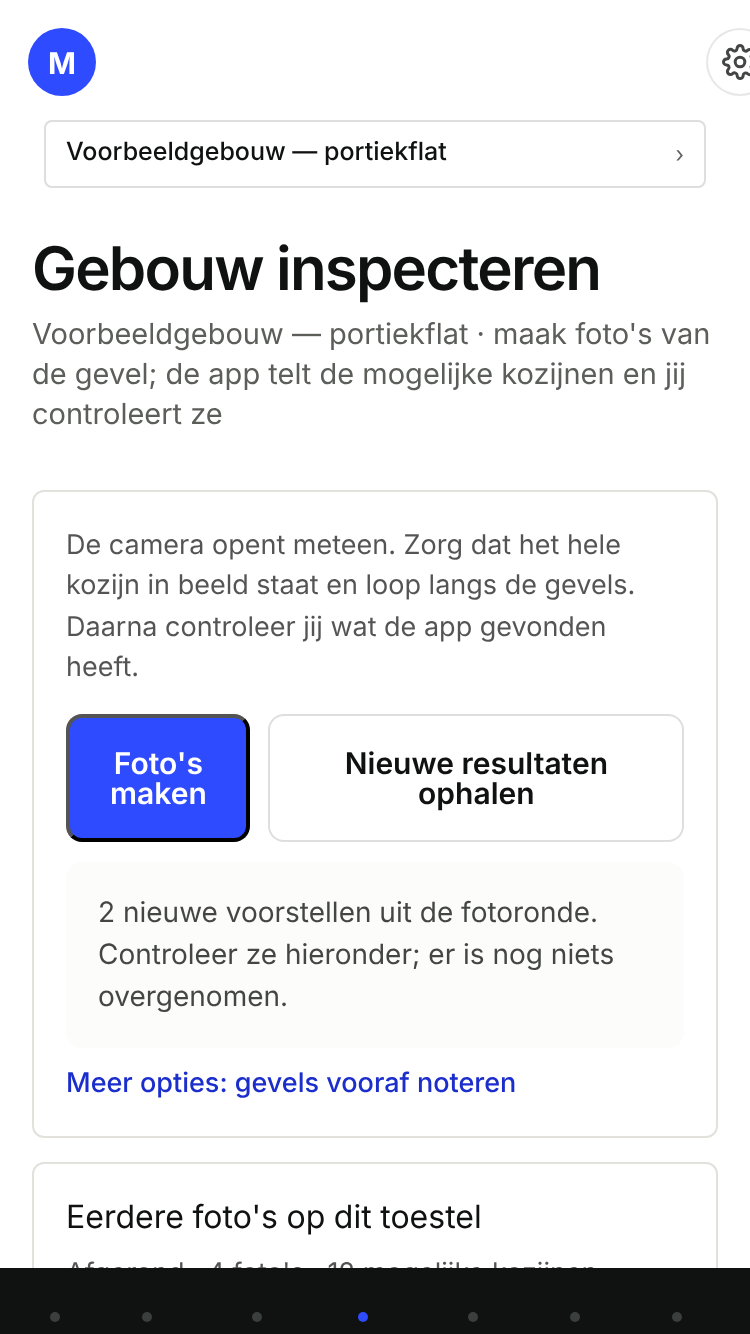
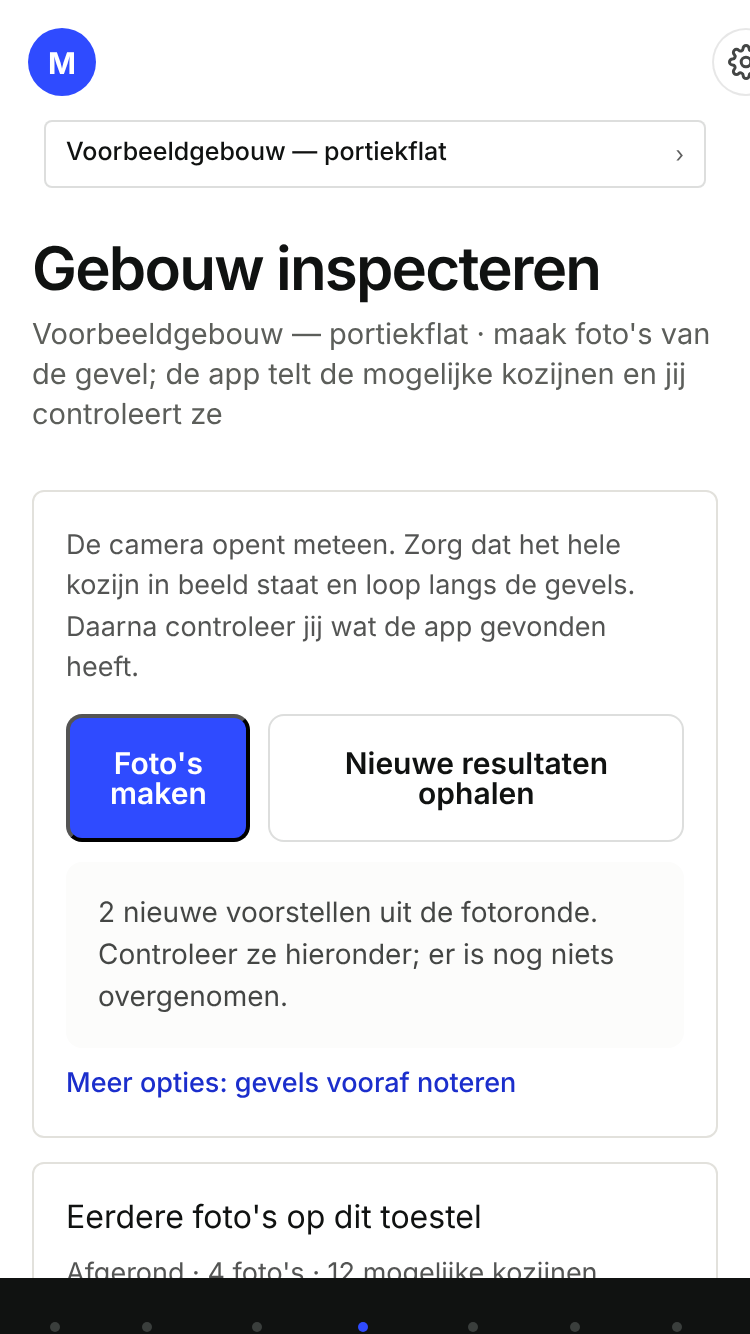
UX stap 4: begrijpelijke controle en bevestiging van scanresultaten
- 'Dit is gevonden': aantal kozijnen en kozijnoppervlak in gewone taal (voorlopig; ontbrekend blijft 'nog niet te bepalen', nooit 0)
- Eén knop 'Toevoegen aan MJOP' (bron toevoegen + kiezen) met dezelfde verplichte erkenning dat het een voorlopige schatting is; een eigen waarde wordt alleen vervangen na uitdrukkelijke keuze en blijft als bron bewaard
- Uitgebreide weergave en bestaande flow ongewijzigd; nieuwe quantity-check.spec.js

Claude-Session: https://claude.ai/code/session_01GYBR75Fb7Wtgfy81KxCUeB

Changed region(s): [[0.0, 0.9528, 1.0, 1.0], [0.9507, 0.0307, 1.0, 0.0615]]

diff --git a/src/app.js b/src/app.js
@@ -2437,9 +2437,30 @@
       var lokaal = isDirty();
       html += '<div class="label" style="margin-top:16px">' + (simpel ? 'Resultaten van de foto\'s' : 'Voorstellen') + '</div>';
       if (lokaal) html += '<div class="hint" data-fotoronde-lokaal>Nog niet opgeslagen: deze voorstellen staan alleen op dit toestel tot je het plan opslaat.</div>';
+      if (simpel) html += renderPrSamenvatting(list);
       list.forEach(function (entry) { html += renderPrCard(entry); });
     }
     html += PG_CLOSE;
+    return html;
+  }
+
+  // Overzicht in gewone taal van wat de foto's hebben opgeleverd (alleen voor het hele gebouw; nooit gevels bij elkaar opgeteld).
+  function renderPrSamenvatting(list) {
+    var actief = list.filter(function (x) { return x.ui.status !== 'REJECTED' && x.ui.status !== 'SUPERSEDED' && x.p.target.scope.type === 'BUILDING'; });
+    var aantal = actief.filter(function (x) { return x.p.target.unit === 'st'; })[0];
+    var opp = actief.filter(function (x) { return x.p.target.unit !== 'st'; })[0];
+    if (!aantal && !opp) return '';
+    var html = '<section class="ov-card pr-samenvatting" data-pr-samenvatting style="padding:16px;margin-top:12px"><h2 class="ov-h2">Dit is gevonden</h2>';
+    if (aantal) {
+      var av = PR.effectiveValue(aantal);
+      html += '<p data-pr-sam-aantal>' + (av == null ? 'Aantal kozijnen: nog niet te bepalen.' : 'Aantal kozijnen: <b>' + Q.formatNumber(av) + '</b> (voorlopig)') + '</p>';
+    }
+    if (opp) {
+      var ov = PR.effectiveValue(opp), unit = Q.unitLabel(opp.p.target.unit);
+      html += '<p data-pr-sam-opp>' + (ov != null ? 'Kozijnoppervlak: <b>' + Q.formatNumber(ov) + ' ' + esc(unit) + '</b> (voorlopig)'
+        : 'Kozijnoppervlak: nog niet te bepalen' + (opp.p.partial_value != null ? '. Voor een deel van de kozijnen is er een maat (' + Q.formatNumber(opp.p.partial_value) + ' ' + esc(unit) + '); het totaal is nog niet compleet' : '') + '.') + '</p>';
+    }
+    html += '<p class="hint">Nog niets is overgenomen in je MJOP. Controleer de resultaten hieronder en kies zelf wat je toevoegt.</p></section>';
     return html;
   }
 
@@ -2467,7 +2488,27 @@
       html += '<div class="input-row"><div class="label">Corrigeer waarde (optioneel)</div><input id="pr-corr-' + esc(id) + '" data-bind="pr-corr" data-id="' + esc(id) + '" inputmode="decimal" placeholder="' + (p.value == null ? 'vul zelf in' : Q.formatNumber(p.value)) + '" value="' + (u.corrected != null ? esc(String(u.corrected).replace('.', ',')) : '') + '" style="width:110px;text-align:right" /></div>';
       if (u.corrFout) html += '<div class="notice error" data-pr-fout>' + esc(u.corrFout) + '</div>';
       var targets = PR.targetsFor(p, state.elements);
-      if (p.target.unit === 'st') {
+      if (simpel && p.target.unit === 'st') {
+        // Eén begrijpelijke bevestiging i.p.v. "als bron toevoegen" + "gebruiken". De uitdrukkelijke erkenning blijft verplicht.
+        var effT = u.targetId || (targets.length === 1 ? targets[0].id : '');
+        var effEntryTq = effT ? (function () { var pp = effT.split(':'), eel = findEl(pp[0]); return eel && eel.koz && eel.koz[+pp[1]] ? { el: eel, row: eel.koz[+pp[1]], q: eel.koz[+pp[1]].quantity } : null; })() : null;
+        html += '<div class="pr-bevestig" data-pr-bevestig>';
+        if (!targets.length) html += '<div class="hint" data-pr-notarget>Geen passende kozijnpost in dit plan.</div>';
+        else {
+          if (targets.length > 1) {
+            html += '<div class="input-row"><div class="label">Toevoegen bij</div><select id="pr-target-' + esc(id) + '" data-change="pr-target" data-id="' + esc(id) + '"><option value="">kies een post…</option>';
+            targets.forEach(function (t) { html += '<option value="' + esc(t.id) + '"' + (u.targetId === t.id ? ' selected' : '') + '>' + esc(t.label) + '</option>'; });
+            html += '</select></div>';
+          }
+          html += '<p class="pr-bevestig-tekst" data-pr-dit-wordt>' + (val == null ? 'Er is nog geen betrouwbaar aantal om toe te voegen.' : 'Dit wordt toegevoegd: <b>' + Q.formatNumber(val) + ' ' + esc(unit) + '</b>' + (effEntryTq ? ' bij <b>' + esc(effEntryTq.el.naam + ' — ' + effEntryTq.row.naam) + '</b>' : '') + '. Het totaal over alle kozijnen komt op één rij te staan; verdeel het zo nodig daarna zelf.') + '</p>';
+          html += '<label class="ov-row"><span>Ik begrijp dat dit een voorlopige schatting uit foto\'s is</span><input type="checkbox" id="pr-ack-' + esc(id) + '" data-change="pr-ack" data-id="' + esc(id) + '"' + (u.ack ? ' checked' : '') + ' /></label>';
+          if (effEntryTq && effEntryTq.q && effEntryTq.q.manual) html += '<label class="ov-row"><span>Mijn ingevulde waarde (' + Q.formatNumber(effEntryTq.q.manual.value) + ') vervangen (blijft als bron bewaard)</span><input type="checkbox" id="pr-replace-' + esc(id) + '" data-change="pr-replace" data-id="' + esc(id) + '"' + (u.replaceManual ? ' checked' : '') + ' /></label>';
+          if (u.useFout) html += '<div class="notice error" data-pr-fout>' + esc(u.useFout) + '</div>';
+        }
+        html += '</div>';
+        html += '<div class="btn-row"><button type="button" class="primary-btn"' + (val != null && targets.length ? '' : ' disabled') + ' data-act="pr-toevoegen" data-id="' + esc(id) + '">Toevoegen aan MJOP</button>' +
+          '<button type="button" class="ghost-btn" data-act="pr-reject" data-id="' + esc(id) + '">Afwijzen</button></div>';
+      } else if (p.target.unit === 'st') {
         if (targets.length) {
           html += '<div class="input-row"><div class="label">Als bron toevoegen bij</div><select id="pr-target-' + esc(id) + '" data-change="pr-target" data-id="' + esc(id) + '"><option value="">kies een post…</option>';
           targets.forEach(function (t) { html += '<option value="' + esc(t.id) + '"' + (u.targetId === t.id ? ' selected' : '') + '>' + esc(t.label) + '</option>'; });
@@ -2476,7 +2517,7 @@
         } else html += '<div class="hint" data-pr-notarget>Geen passende kozijnpost in dit plan.</div>';
       } else html += '<div class="hint" data-pr-referentie>Oppervlak is bruto kozijnoppervlak en geen buitenmuur-oppervlak: het wordt niet automatisch in een bestaande post gebruikt.</div>';
       var kan = val != null && (p.target.unit !== 'st' || !!u.targetId);
-      html += '<div class="btn-row">' + (p.target.unit === 'st' ? '<button type="button" class="primary-btn"' + (kan ? '' : ' disabled') + ' data-act="pr-add-source" data-id="' + esc(id) + '">Voeg toe als bron</button>' : '<button type="button" class="primary-btn"' + (val != null ? '' : ' disabled') + ' data-act="pr-keep" data-id="' + esc(id) + '">Bewaar als referentie</button>') +
+      if (!(simpel && p.target.unit === 'st')) html += '<div class="btn-row">' + (p.target.unit === 'st' ? '<button type="button" class="primary-btn"' + (kan ? '' : ' disabled') + ' data-act="pr-add-source" data-id="' + esc(id) + '">Voeg toe als bron</button>' : '<button type="button" class="primary-btn"' + (val != null ? '' : ' disabled') + ' data-act="pr-keep" data-id="' + esc(id) + '">Bewaar als referentie</button>') +
         '<button type="button" class="ghost-btn" data-act="pr-reject" data-id="' + esc(id) + '">Afwijzen</button></div>';
     } else if (u.status === 'SOURCE_ADDED') {
       var tq = prTargetQuantity(entry);
@@ -2487,7 +2528,7 @@
       html += '<div class="btn-row"><button type="button" class="primary-btn" data-act="pr-use" data-id="' + esc(id) + '">Gebruik als hoeveelheid</button><button type="button" class="ghost-btn" data-act="pr-reject" data-id="' + esc(id) + '">Afwijzen</button></div>';
     } else if (u.status === 'IN_USE') {
       var tq2 = prTargetQuantity(entry);
-      html += '<div class="hint" data-pr-gebruikt>Gebruikt als hoeveelheid' + (tq2 ? ' bij ' + esc(tq2.el.naam + ' — ' + tq2.row.naam) : '') + ' (door jou gekozen' + (u.decidedAt ? ' op ' + esc(String(u.decidedAt).slice(0, 10)) : '') + '). Aanpassen kan bij die post.</div>';
+      html += '<div class="hint" data-pr-gebruikt>' + (simpel ? 'Toegevoegd aan je MJOP' : 'Gebruikt als hoeveelheid') + (tq2 ? ' bij ' + esc(tq2.el.naam + ' — ' + tq2.row.naam) : '') + ' (door jou gekozen' + (u.decidedAt ? ' op ' + esc(String(u.decidedAt).slice(0, 10)) : '') + '). Aanpassen kan bij die post.</div>';
     } else if (u.status === 'REJECTED') {
       html += '<div class="hint">Afgewezen.</div><div class="btn-row"><button type="button" class="ghost-btn" data-act="pr-restore" data-id="' + esc(id) + '">Weer in behandeling nemen</button></div>';
     } else if (u.status === 'SUPERSEDED') html += '<div class="hint">Vervangen door een nieuwere fotoronde.</div>';
@@ -4670,6 +4711,25 @@
       Q.addEvidence(tq.q, ev);                       // alleen een bron erbij: de effectieve hoeveelheid verandert niet
       e.ui.status = 'SOURCE_ADDED'; e.ui.evidenceId = ev.id; e.ui.ack = false; e.ui.replaceManual = false;
       render();
+    },
+    // Eenvoudige weergave: "Toevoegen aan MJOP" = bron toevoegen + (na uitdrukkelijke erkenning) kiezen, in één keer.
+    // Dezelfde controles als de twee losse stappen: geen waarde zonder erkenning, een eigen waarde alleen na uitdrukkelijk vervangen.
+    'pr-toevoegen': function (d) {
+      var e = prEntry(d.id); if (!e || e.ui.status !== 'PROPOSED') return;
+      var val = PR.effectiveValue(e); if (val == null) return;
+      e.ui.useFout = '';
+      if (!e.ui.targetId) {
+        var ts = PR.targetsFor(e.p, state.elements);
+        if (ts.length === 1) e.ui.targetId = ts[0].id;
+      }
+      var tq = prTargetQuantity(e);
+      if (!tq || !tq.q) { e.ui.useFout = 'Kies eerst bij welke post dit hoort.'; render(); return; }
+      if (!e.ui.ack) { e.ui.useFout = 'Bevestig eerst dat je begrijpt dat dit een voorlopige schatting is.'; render(); return; }
+      if (tq.q.manual && !e.ui.replaceManual) { e.ui.useFout = 'Er staat een door jou ingevulde waarde. Bevestig dat die vervangen mag worden (hij blijft als bron bewaard).'; render(); return; }
+      var ack = e.ui.ack, repl = e.ui.replaceManual;
+      ACTIONS['pr-add-source'](d);
+      e.ui.ack = ack; e.ui.replaceManual = repl;
+      if (e.ui.status === 'SOURCE_ADDED') ACTIONS['pr-use'](d);
     },
     'pr-keep': function (d) { var e = prEntry(d.id); if (e && e.ui.status === 'PROPOSED' && PR.effectiveValue(e) != null) { e.ui.status = 'IN_USE'; e.ui.decidedAt = new Date().toISOString(); e.ui.referenceOnly = true; render(); } },
     'pr-use': function (d) {

diff --git a/test/quantity-check.spec.js b/test/quantity-check.spec.js
@@ -1,0 +1,114 @@
+'use strict';
+// Browsertest: "Toevoegen aan MJOP" in de eenvoudige weergave: één begrijpelijke bevestiging, zonder dat een onzekere scanmaat
+// ongemerkt een hoeveelheid wordt of een door jou ingevulde waarde ongemerkt wordt overschreven.
+//   python3 -m http.server 8937 &   ;   node test/quantity-check.spec.js
+let chromium;
+try { chromium = require('playwright').chromium; } catch (e) { chromium = require('/opt/node22/lib/node_modules/playwright').chromium; }
+var fs = require('fs'), path = require('path');
+var BASE = process.env.MJOP_TEST_BASE || 'http://localhost:8937/';
+var CHROMIUM_PATH = process.env.MJOP_CHROMIUM || '/opt/pw-browsers/chromium';
+var SHOTS = process.env.MJOP_SHOTS || null;
+var APP_UA = 'Mozilla/5.0 (iPhone; CPU iPhone OS 17_0 like Mac OS X) AppleWebKit/605.1.15 (KHTML, like Gecko) Mobile/15E148 MJOPLiveApp/1';
+var COUNT = JSON.parse(fs.readFileSync(path.join(__dirname, 'fixtures', 'photo-round', 'count_building_v2.json'), 'utf8'));
+var AREA = JSON.parse(fs.readFileSync(path.join(__dirname, 'fixtures', 'photo-round', 'area_building_incomplete_v2.json'), 'utf8'));
+var checks = [];
+function check(n, ok, d) { checks.push([n, !!ok, d]); }
+var BRIDGE_STUB = function () {
+  window.__posted = [];
+  window.webkit = { messageHandlers: { mjopNative: { postMessage: function (m) {
+    window.__posted.push(JSON.parse(JSON.stringify(m)));
+    if (m.action === 'getCapabilities') setTimeout(function () { window.MJOPNativeBridge.receive({ v: 1, type: 'capabilities', requestId: m.requestId, lidar: true, appVersion: '1' }); }, 10);
+  } } } };
+};
+async function click(page, sel) { await page.evaluate(function (s) { var e = document.querySelector(s); if (e) e.click(); }, sel); await page.waitForTimeout(150); }
+async function text(page) { return page.evaluate(function () { return document.body.innerText; }); }
+function forPlan(p, ref) { var c = JSON.parse(JSON.stringify(p)); c.project.plan_ref = ref; return c; }
+async function rows(page) {
+  return page.evaluate(function () {
+    return { vals: Array.from(document.querySelectorAll('.koz-row .val')).map(function (e) { return e.textContent.trim(); }), hint0: ((document.querySelectorAll('.koz-row')[0] || {}).innerText || '') };
+  });
+}
+async function tick(page, sel) { await page.evaluate(function (s) { var c = document.querySelector(s); c.checked = true; c.dispatchEvent(new Event('change', { bubbles: true })); }, sel); await page.waitForTimeout(120); }
+
+async function openWithResults(browser) {
+  var ctx = await browser.newContext({ viewport: { width: 375, height: 667 }, deviceScaleFactor: 2, userAgent: APP_UA, isMobile: true, hasTouch: true });
+  var page = await ctx.newPage(); page.__errors = [];
+  page.on('pageerror', function (e) { page.__errors.push(String(e)); });
+  await page.addInitScript('(' + BRIDGE_STUB.toString() + ')()');
+  await page.route(/^https?:\/\/(?!localhost)/, function (r) { return r.abort(); });
+  await page.goto(BASE + 'index.html'); await page.waitForTimeout(300);
+  await click(page, '[data-act=skip-onboarding]');
+  await click(page, '[data-act=set-tab][data-tab=start]');
+  await click(page, '[data-act=start-inspecteer]');
+  await click(page, '[data-act=photo-round-start]');
+  var planRef = (await page.evaluate(function () { return window.__posted; })).filter(function (m) { return m.action === 'startPhotoRound'; })[0].payload.planRef;
+  return { page: page, planRef: planRef };
+}
+
+async function main() {
+  var browser = await chromium.launch({ executablePath: CHROMIUM_PATH });
+
+  // ===== scenario 1: gewone toevoeging =====
+  var o = await openWithResults(browser), page = o.page;
+  await page.evaluate(function (a) { return window.MJOPNativeBridge.receive(a); }, { v: 1, type: 'proposals', planRef: o.planRef, proposals: [forPlan(COUNT, o.planRef), forPlan(AREA, o.planRef)], rounds: [] });
+  await page.waitForTimeout(200);
+  var t = await text(page);
+  check('Samenvatting "Dit is gevonden": aantal en oppervlak in gewone taal', /Dit is gevonden/.test(t) && /Aantal kozijnen: 12 \(voorlopig\)/.test(t) && /Kozijnoppervlak: nog niet te bepalen/.test(t) && /17,4/.test(t), t.slice(0, 400));
+  check('Samenvatting zegt dat er nog niets is overgenomen', /Nog niets is overgenomen/.test(t));
+  var cardId = await page.evaluate(function () { return document.querySelector('[data-pr-card] [data-act=pr-toevoegen]').dataset.id; });
+  check('Eén knop "Toevoegen aan MJOP" i.p.v. "Voeg toe als bron" + "Gebruik als hoeveelheid"', !(await page.$('[data-act=pr-add-source]')) && /Toevoegen aan MJOP/.test(t));
+  check('Duidelijk wat er gebeurt: "Dit wordt toegevoegd: 12 st"', /Dit wordt toegevoegd: 12 st/.test(await text(page)) || await page.evaluate(function () { return /12/.test((document.querySelector('[data-pr-dit-wordt]') || {}).textContent || ''); }));
+  var layout = await page.evaluate(function () { var g = document.querySelector('.mobile-settings-btn').getBoundingClientRect(); var wide = []; document.querySelectorAll('body *').forEach(function (e) { var b = e.getBoundingClientRect(); if (b.right > window.innerWidth + 1 && b.width > 0) wide.push(e.tagName + '.' + String(e.className).slice(0, 30) + ':' + Math.round(b.right)); }); return { iw: window.innerWidth, sw: document.documentElement.scrollWidth, sx: window.scrollX, gearRight: Math.round(g.right), wide: wide.slice(0, 6) }; });
+  check('375px met resultaten: niets steekt buiten het scherm', layout.gearRight <= layout.iw && layout.wide.length === 0 && layout.sx === 0, JSON.stringify(layout));
+  if (SHOTS) await page.screenshot({ path: SHOTS + '/controle-375.png', fullPage: false });
+  await page.selectOption('#pr-target-' + cardId, 'kozijnen-onderhoud:0'); await page.waitForTimeout(100);
+  await click(page, '[data-act=pr-toevoegen][data-id="' + cardId + '"]');
+  check('Zonder bevestiging wordt niets toegevoegd (duidelijke melding)', /Bevestig eerst/.test(await text(page)) && !(await page.$('[data-pr-status=IN_USE]')) && !(await page.$('[data-pr-status=SOURCE_ADDED]')));
+  await click(page, '[data-act=set-tab][data-tab=gebouw]'); await click(page, '[data-act=open-element][data-id=kozijnen-onderhoud]');
+  var before = await rows(page);
+  await click(page, '[data-act=set-tab][data-tab=fotoronde]');
+  await tick(page, '#pr-ack-' + cardId);
+  await click(page, '[data-act=pr-toevoegen][data-id="' + cardId + '"]');
+  t = await text(page);
+  check('Met bevestiging: in één klik toegevoegd ("Toegevoegd aan je MJOP")', !!(await page.$('[data-pr-status=IN_USE]')) && /Toegevoegd aan je MJOP/.test(t) && /door jou gekozen/.test(t));
+  await click(page, '[data-act=set-tab][data-tab=gebouw]'); await click(page, '[data-act=open-element][data-id=kozijnen-onderhoud]');
+  var after = await rows(page);
+  check('Kozijnrij 1 is nu 12; andere rijen ongewijzigd', after.vals[0] === '12' && after.vals.slice(1).join() === before.vals.slice(1).join(), JSON.stringify([before.vals, after.vals]));
+  check('Geen JavaScript-fouten', page.__errors.length === 0, page.__errors.join('; '));
+  await page.context().close();
+
+  // ===== scenario 2: eigen waarde nooit ongemerkt overschreven =====
+  o = await openWithResults(browser); page = o.page;
+  await click(page, '[data-act=set-tab][data-tab=gebouw]');
+  await click(page, '[data-act=open-element][data-id=kozijnen-onderhoud]');
+  await click(page, '[data-act=koz-plus][data-id=kozijnen-onderhoud][data-i="0"]');
+  await click(page, '[data-act=koz-plus][data-id=kozijnen-onderhoud][data-i="0"]');
+  var man = await rows(page);
+  check('Eigen waarde ingevuld ("Door jou aangepast")', /Door jou aangepast/.test(man.hint0), man.hint0);
+  await page.evaluate(function (a) { return window.MJOPNativeBridge.receive(a); }, { v: 1, type: 'proposals', planRef: o.planRef, proposals: [forPlan(COUNT, o.planRef)], rounds: [] });
+  await click(page, '[data-act=set-tab][data-tab=fotoronde]');
+  cardId = await page.evaluate(function () { return document.querySelector('[data-pr-card] [data-act=pr-toevoegen]').dataset.id; });
+  await page.selectOption('#pr-target-' + cardId, 'kozijnen-onderhoud:0'); await page.waitForTimeout(100);
+  check('Bij een eigen waarde staat de vervang-keuze er expliciet bij', await page.evaluate(function (id) { return !!document.getElementById('pr-replace-' + id); }, cardId));
+  await tick(page, '#pr-ack-' + cardId);
+  await click(page, '[data-act=pr-toevoegen][data-id="' + cardId + '"]');
+  check('Zonder "vervangen" wordt de eigen waarde niet overschreven (melding)', /door jou ingevulde waarde/.test(await text(page)) && !(await page.$('[data-pr-status=IN_USE]')));
+  await click(page, '[data-act=set-tab][data-tab=gebouw]'); await click(page, '[data-act=open-element][data-id=kozijnen-onderhoud]');
+  var still = await rows(page);
+  check('… en de eigen waarde is onveranderd', still.vals[0] === man.vals[0] && /Door jou aangepast/.test(still.hint0), JSON.stringify([man.vals, still.vals]));
+  await click(page, '[data-act=set-tab][data-tab=fotoronde]');
+  await tick(page, '#pr-replace-' + cardId);
+  await click(page, '[data-act=pr-toevoegen][data-id="' + cardId + '"]');
+  await click(page, '[data-act=set-tab][data-tab=gebouw]'); await click(page, '[data-act=open-element][data-id=kozijnen-onderhoud]');
+  var repl = await rows(page);
+  check('Pas na uitdrukkelijk "vervangen" wordt de waarde 12 (bron blijft bewaard)', repl.vals[0] === '12' && !/Door jou aangepast/.test(repl.hint0), JSON.stringify(repl.vals));
+  check('Geen JavaScript-fouten (scenario 2)', page.__errors.length === 0, page.__errors.join('; '));
+  await page.context().close();
+
+  await browser.close();
+  var failed = checks.filter(function (c) { return !c[1]; });
+  checks.forEach(function (c) { console.log((c[1] ? 'OK   - ' : 'FAIL - ') + c[0] + (c[1] ? '' : ' [' + c[2] + ']')); });
+  console.log(failed.length ? failed.length + ' controle(s) mislukt.' : 'Alle controles geslaagd.');
+  process.exit(failed.length ? 1 : 0);
+}
+main().catch(function (e) { console.error(e); process.exit(2); });

diff --git a/test/fotoronde-simpel.spec.js b/test/fotoronde-simpel.spec.js
@@ -70,8 +70,8 @@ async function main() {
   t = await text(page);
   check('"Technische details" toont fasen en bron op verzoek', /Detectie: 11 automatisch/.test(t) && /Meting: LiDAR, geschat/.test(t) && /Bevestiging: nog niet/.test(t) && /Waarop is dit gebaseerd/.test(t));
   if (SHOTS) await page.screenshot({ path: SHOTS + '/fotoronde-simpel-details-375.png' });
-  var kan = await page.evaluate(function () { return !!document.querySelector('[data-act=pr-add-source]'); });
-  check('Het voorstel blijft een voorstel: bevestigen/gebruiken werkt zoals voorheen (knop "Voeg toe als bron")', kan);
+  var kan = await page.evaluate(function () { return !!document.querySelector('[data-act=pr-toevoegen]') && !document.querySelector('[data-pr-status=IN_USE]'); });
+  check('Het voorstel blijft een voorstel: niets is toegevoegd zolang de gebruiker niet bevestigt (zie quantity-check.spec.js)', kan);
   check('Geen JavaScript-fouten', errors.length === 0, errors.join('; '));
   await ctx.close();
 
